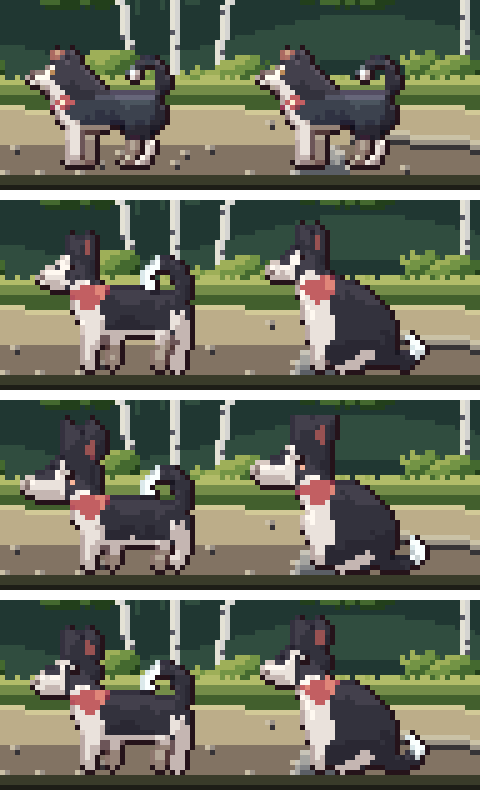
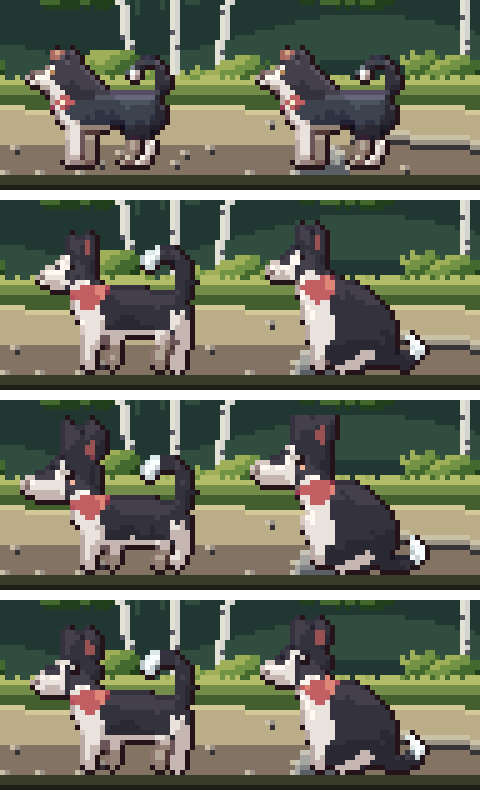
Study 8: an air gap between Olive's tail tip and her back
The curl is lifted so the white tip hangs clear of her back.

Claude-Session: https://claude.ai/code/session_01AFuv3xBDCFNHg8cxuFG86Z

Changed region(s): [[0.2812, 0.5625, 0.4062, 0.625], [0.2812, 0.2812, 0.4062, 0.375], [0.2812, 0.8125, 0.4062, 0.875]]

diff --git a/tools/studio/study_creatures.py b/tools/studio/study_creatures.py
@@ -232,9 +232,9 @@ OLIVE = {
                   ("W", [(16, 22.5), (28, 22.5), (28, 25), (16, 25)]),
                   ("R", [(10.2, 14.6), (15.6, 13.4), (16.4, 15.8), (13.4, 18.6), (11.2, 17)])],
         # her tail, like a husky's: up from the rump and curled forward over
-        # her back toward her head, tapering to a white tip
-        "tail": [("O", [(31, 18), (32.4, 14.4), (31.8, 11), (29.4, 9.4), (26.6, 9.8)], [2.4, 2.2, 2, 1.8, 1.6]),
-                 ("H", [(26.6, 9.8), (25, 11.6), (25.4, 13.6)], [1.6, 1.4, 1.2])],
+        # her back toward her head, tapering to a white tip held clear of it
+        "tail": [("O", [(31, 18), (32.8, 13.4), (32.2, 9.2), (29.8, 7.2), (26.8, 7.4)], [2.4, 2.2, 2, 1.8, 1.6]),
+                 ("H", [(26.8, 7.4), (25.2, 8.8), (25.4, 10.4)], [1.6, 1.4, 1.2])],
         "legs": [
             ("far", [(18, 21), (18.5, 26), (18, 30)], [2.2, 1.6, 1.4]),
             ("far", [(27.5, 21), (28.6, 25), (27.4, 27.5), (27.4, 30)], [3, 1.8, 1.4, 1.4]),

diff --git a/docs/studio/studies.md b/docs/studio/studies.md
@@ -391,7 +391,7 @@ in `tools/characters/anatomy.py`), 60 degrees, so they agree.
 - A tail drawn as a solid shape reads as a plank; drawn as a tapering
   limb (thick at the root, thin to the tip) it reads as a tail. (Olive's,
   at your call; and curled forward over her back toward her head, like a
-  husky's.)
+  husky's, the tip held clear of her back with a gap of air.)
 - Antler tines need room: spaced three pixels apart with their outline,
   closer they merge into a clump.
 
